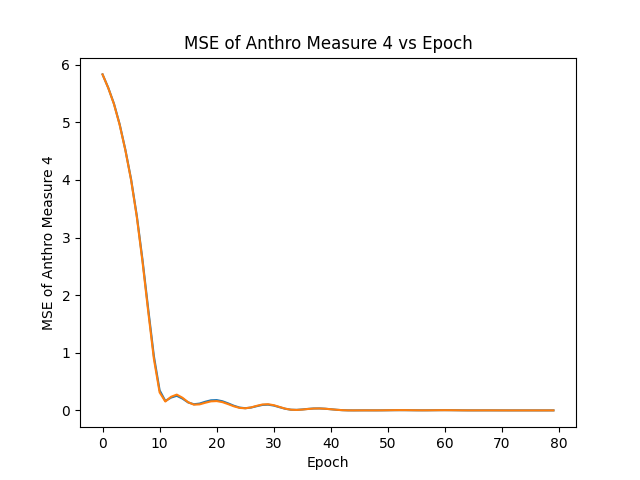
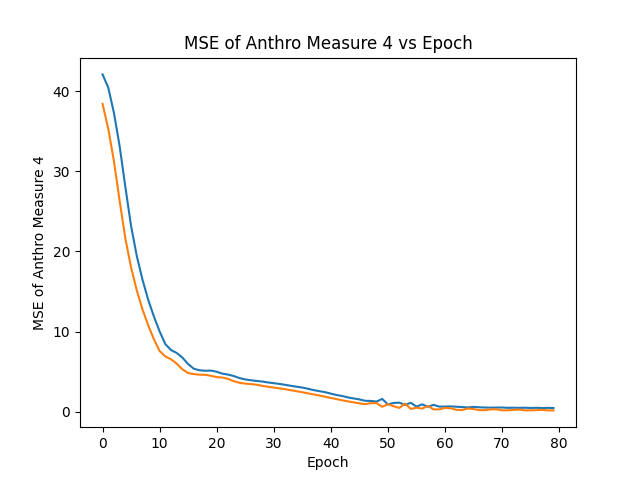
trained model with first split

diff --git a/src/train_and_validate.py b/src/train_and_validate.py
@@ -4,54 +4,31 @@ from sklearn.model_selection import train_test_split
 import matplotlib.pyplot as plt
 from inputProcessing import *
 import numpy as np
+from dataProcessing import *
 '''
 This class contains methods relevant towards training
 a model
 '''
 class ModelTrainer:
     def __init__(self, ):
-        hrir = InputProcessing.extractHRIR(3)
-        pos = InputProcessing.extractPos(3)
-        hrir_pos = np.hstack((hrir, pos))
-        anthro = InputProcessing.extractAnthro(3, True)
-        anthro = np.tile(anthro, (1250,1))
-        # Split the data into training and test sets (70% training, 30% test)
-        hrir_pos_train, hrir_pos_test, anthro_train, anthro_test = train_test_split(
-            hrir_pos, anthro, test_size=0.3, random_state=41)
-
-        # Split the test set again to get validation set (20% validation, 10% test)
-        hrir_pos_valid, hrir_pos_test, anthro_valid, anthro_test = train_test_split(
-            hrir_pos_test, anthro_test, test_size=0.33, random_state=41)
-
-        # get mean and standard deviation
-        self.anthro_mean = np.mean(anthro)
-        self.anthro_std = np.std(anthro)
-        self.hrirPos_mean = np.mean(hrir_pos)
-        self.hrirPos_std = np.std(hrir_pos)
-
-        # normalize inputs
-        self.X_train = self.normalize(hrir_pos_train, self.hrirPos_mean, self.hrirPos_std)
-        self.X_test = self.normalize(hrir_pos_test, self.hrirPos_mean, self.hrirPos_std)
-        self.X_valid = self.normalize(hrir_pos_valid, self.hrirPos_mean, self.hrirPos_std)
-        self.anthro_train = self.normalize(anthro_train, self.anthro_mean, self.anthro_std)
-        self.anthro_test = self.normalize(anthro_test, self.anthro_mean, self.anthro_std)
-        self.anthro_valid = self.normalize(anthro_valid, self.anthro_mean, self.anthro_std)
-
-    # Method to normalize data
-    def normalize(self, data, mean, std):
-        torch_data = torch.FloatTensor(data)
-        normalized_data = (torch_data - mean) / std
-        return normalized_data
-    
+        self.DP = DataProcessing()
+        hrir_train, hrir_valid, hrir_test, anthro_train, anthro_valid, anthro_test = self.DP.dataSplitTypeOne()
+        self.X_train = hrir_train
+        self.X_valid = hrir_valid
+        self.X_test = hrir_test
+        self.Y_train = anthro_train
+        self.Y_valid = anthro_valid
+        self.Y_test = anthro_test
+       
     # Method to train the model
     def trainModel(self, model):
         # Get training data
         X_train = self.X_train
-        anthro_train = self.anthro_train
+        anthro_train = self.Y_train
         X_valid = self.X_valid
-        anthro_valid = self.anthro_valid
+        anthro_valid = self.Y_valid
         X_valid = self.X_valid
-        anthro_valid = self.anthro_valid
+        anthro_valid = self.Y_valid
         # Set loss function
         criterion = nn.MSELoss()
         #Choose Adam Optimizer, learning rate
@@ -60,7 +37,6 @@ class ModelTrainer:
         epochs = 80
         train_losses = []
         val_losses = []
-        indivLosses = []
         mse_train_data = []
         mse_validation_data = []
         min_valid_loss = np.inf
@@ -69,49 +45,70 @@ class ModelTrainer:
             # propgate forward
             anthro_pred = model.forward(X_train)
             #calculate loss
-            lossAnthro = criterion(anthro_pred, anthro_train)
+            lossAnthroTrain = criterion(anthro_pred, anthro_train)
             #calculate individual losses
-            mse = nn.functional.mse_loss(anthro_pred, anthro_train, reduction='none')
-            indivLosses.append(mse.detach().numpy())
+            indiv_mse = torch.mean((anthro_pred - anthro_train)**2, dim=0)
             #Keep track of losses
-            train_losses.append(lossAnthro.detach().numpy())
-            train_output = torch.mean(mse, dim=0)
-            mse_train_data.append(np.array(train_output.detach().numpy()))
-
-            if i % 10 == 0:
-                print(f'Epoch: {i} and loss: {lossAnthro}')
+            train_losses.append(lossAnthroTrain.detach().numpy())
+            mse_train_data.append(np.array(indiv_mse.detach().numpy()))
             
             #Do some backward propagation
-            model.train()
             optimizer.zero_grad()
-            lossAnthro.backward()
+            lossAnthroTrain.backward()
             optimizer.step()
+            train_loss = lossAnthroTrain.item()
 
-            # Get the MSE of the validation data without chaning the wieghts
+            # Get the MSE of the validation data without chaning the weights (Cross Validation)
             model.eval()   
             with torch.no_grad():
+                # Find loss for validation
                 anthro_val_pred = model(X_valid)
-                anthro_val_pred = model(X_valid)
-
-                loss_fn = nn.MSELoss()
-                lossValAnthro = loss_fn(anthro_val_pred, anthro_valid)
-                lossValAnthro = loss_fn(anthro_val_pred, anthro_valid)
-                # plot validation error
+                lossValAnthro = criterion(anthro_val_pred, anthro_valid)
+            
                 val_losses.append(lossValAnthro.detach().numpy())
-                val_output = [0]*10
-                for column_index in range(10):
-                    val_output[column_index] = loss_fn(anthro_val_pred[:, column_index], anthro_valid[:, column_index])
-                    val_output[column_index] = loss_fn(anthro_val_pred[:, column_index], anthro_valid[:, column_index])
-                mse_validation_data.append(val_output)
+                
+                # get individual MSE's for validation
+                val_output = torch.mean((anthro_val_pred - anthro_valid)**2, dim=0) 
+                mse_validation_data.append(np.array(val_output.detach().numpy()))
 
-                # do cross validation
-                valid_loss = lossValAnthro.item() * X_valid.size(0)
-                tot_loss_val = loss_fn(anthro_val_pred, anthro_valid)
-                valid_loss = lossValAnthro.item() * X_valid.size(0)
-                tot_loss_val = loss_fn(anthro_val_pred, anthro_valid)
-                if min_valid_loss > tot_loss_val:
-                    min_valid_loss = valid_loss
-                    torch.save(model.state_dict(), 'saved_model.pth')
+                valid_loss = lossValAnthro.item()
+
+                print(f'Epoch {i+1} \t\t Training Loss: {train_loss} \t\t Validation Loss: {valid_loss}')
+            # Update validation loss
+            if min_valid_loss > lossValAnthro:
+                print(f'Validation Loss Decreased({min_valid_loss:.6f}-->{lossValAnthro:.6f}) \t Saving The Model')
+                min_valid_loss = lossValAnthro
+                # save current state of model
+                torch.save(model.state_dict(), 'saved_model.pth')
+
+        # Plot total error per epoch
+        trainLoss = plt.figure()
+        plt.plot(range(epochs), train_losses, label = "training losses")
+        plt.plot(range(epochs), val_losses, label = "validation losses")
+        plt.ylabel("Loss")
+        plt.xlabel("Epoch")
+        plt.title("Training Loss")
+        trainLoss.savefig('../figures/error.png')
+
+        # Plot error for each anthro measurement
+        for i in range(10):
+            anthroMSE = plt.figure()
+            mse_train_data = np.array(mse_train_data)
+            mse_validation_data = np.array(mse_validation_data)
+            mse_train = mse_train_data[:, i]
+            mse_valid = mse_validation_data[:, i]
+
+            plt.plot(range(epochs), mse_train, label = "training data")
+            plt.plot(range(epochs), mse_valid, label = "validation data")
+
+            ylabel = "MSE of Anthro Measure " + str(i)
+            plotlabel = ylabel + " vs Epoch"
+            figlabel = "../figures/" + str(i) + ".png"
+
+            plt.ylabel(ylabel)
+            plt.xlabel("Epoch")
+            plt.title(plotlabel)
+            anthroMSE.savefig(figlabel)
 
      # Method to test the model
     def testModel(self, model):

diff --git a/src/dataProcessing.py b/src/dataProcessing.py
@@ -27,6 +27,13 @@ class DataProcessing:
         X_train, Y_train = self.IP.extractData(trainSubjects)
         X_valid, Y_valid = self.IP.extractData(validSubjects)
         X_test, Y_test = self.IP.extractData(testSubjects)
+        
+        X_train = torch.tensor(X_train).to(torch.float32)
+        Y_train = torch.tensor(Y_train).to(torch.float32)
+        X_valid = torch.tensor(X_valid).to(torch.float32)
+        Y_valid = torch.tensor(Y_valid).to(torch.float32)
+        X_test = torch.tensor(X_test).to(torch.float32)
+        Y_test = torch.tensor(Y_test).to(torch.float32)
 
         return X_train, X_valid, X_test, Y_train, Y_valid, Y_test
     
@@ -50,11 +57,14 @@ class DataProcessing:
             X_test = np.vstack((X_test, currX_test))
             Y_test = np.vstack((Y_test, currY_test))
 
+        X_train = torch.tensor(X_train).to(torch.float32)
+        Y_train = torch.tensor(Y_train).to(torch.float32)
+        X_valid = torch.tensor(X_valid).to(torch.float32)
+        Y_valid = torch.tensor(Y_valid).to(torch.float32)
+        X_test = torch.tensor(X_test).to(torch.float32)
+        Y_test = torch.tensor(Y_test).to(torch.float32)
         return X_train, X_valid, X_test, Y_train, Y_valid, Y_test
 
-
-DP = DataProcessing()
-DP.dataSplitTypeTwo()
 
 
     

diff --git a/src/mse.py b/src/mse.py
@@ -1,16 +1,11 @@
 import torch
-import torch.nn as nn
 
-# Sample data
-y_true = torch.tensor([3.0, 5.0, 7.0])
-y_pred = torch.tensor([2.5, 4.8, 7.2])
-true = torch.tensor([3.0])
-pred = torch.tensor([5.0])
-# Define the Mean Squared Error Loss function
-loss_fn = nn.MSELoss()
+# Example data
+predicted_values = torch.tensor([[2.0, 3.0, 4.0], [5.0, 6.0, 7.0]])  # 2x3 tensor
+actual_values = torch.tensor([[1.5, 3.5, 4.5], [4.5, 5.5, 7.5]])    # 2x3 tensor
 
-# Compute the loss output
-loss_output = loss_fn(pred, true)
+# Calculate the Mean Squared Error (MSE) across each dimension
+mse_per_dimension = torch.mean((predicted_values - actual_values) ** 2, dim=0)
 
+print(mse_per_dimension)
 
-print(loss_output)

diff --git a/src/model.py b/src/model.py
@@ -8,7 +8,7 @@ This class represents the model architecture used for
 this simple model
 
 One input vectors:
-    HRIR of left ear + Src Position: 1 X 67
+    HRIR of left ear + Src Position: 1 X 203
     
 Output Vectors:
     Left-Ear-Only Anthro Measurements: 10 X 1
@@ -18,7 +18,7 @@ Output Vectors:
 class Model(nn.Module):
 
     def __init__(self, 
-                 hrir_pos=67, 
+                 hrir_pos=203, 
                  h1=10, h2=15, h3=10, 
                  ear_anthro=10):
         super().__init__() # instantiate our nn.Module

diff --git a/src/main.py b/src/main.py
@@ -17,9 +17,9 @@ class Main:
 
         self.trainer.trainModel(self.model)
 
-        mse = self.trainer.testModel(self.model)
+        # mse = self.trainer.testModel(self.model)
 
-        print(mse)
+        # print(mse)
     # This method will make a prediction given a subject
     def predictAnthro(self, subject):
         hrir = InputProcessing.extractHRIR(subject)
@@ -40,9 +40,6 @@ class Main:
             return anthro_pred
 
 
-'''
+
 main = Main()
 main.trainAndTest()
-anthroPred = main.predictAnthro(3)
-print(anthroPred)
-'''
